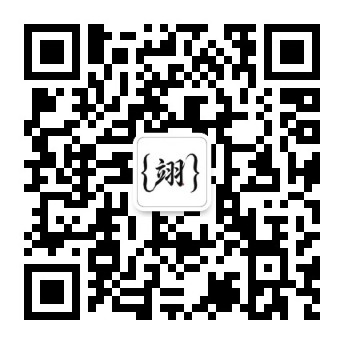
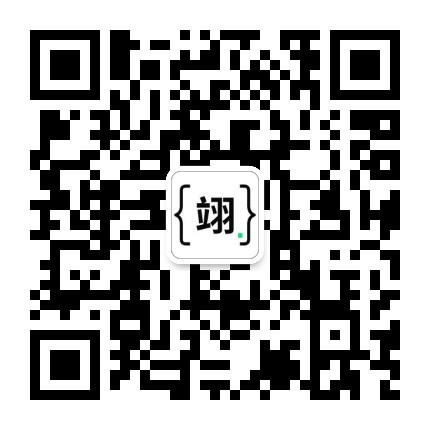
feat: update wechat qrcode

Changed region(s): [[0.407, 0.407, 0.6105, 0.5814]]

diff --git a/_includes/theme/home-sidebar.html b/_includes/theme/home-sidebar.html
@@ -5,7 +5,7 @@
   </div>
   <div class="console-panel-body sidebar-wechat-body">
     <div class="wechat-qr-wrap">
-      <img src="{{ site.url }}/images/qrcode.jpg" alt="{{ site.components.qrcode.image_alt }}" class="wechat-qr-img" />
+      <img src="{{ site.url }}/images/qrcode.jpg?v=2" alt="{{ site.components.qrcode.image_alt }}" class="wechat-qr-img" />
       <p class="wechat-qr-caption">{{ site.components.qrcode.image_alt }}</p>
     </div>
     <p class="sidebar-widget-desc">扫码关注，获取更多技术文章与实践经验。</p>

diff --git a/_includes/theme/post-toc.html b/_includes/theme/post-toc.html
@@ -13,7 +13,7 @@
       <span>WeChat</span>
     </div>
     <div class="console-panel-body post-toc-wechat-body">
-      <img src="{{ site.url }}/images/qrcode.jpg" alt="{{ site.components.qrcode.image_alt }}" class="wechat-qr-img post-toc-wechat-image" />
+      <img src="{{ site.url }}/images/qrcode.jpg?v=2" alt="{{ site.components.qrcode.image_alt }}" class="wechat-qr-img post-toc-wechat-image" />
       <p class="wechat-qr-caption post-toc-wechat-caption">{{ site.components.qrcode.image_alt }}</p>
     </div>
   </div>

diff --git a/_includes/theme/wechat-qr.html b/_includes/theme/wechat-qr.html
@@ -6,7 +6,7 @@
       <p class="theme-section-description">扫码关注，获取更多技术文章。</p>
     </header>
     <div class="wechat-qr-wrap">
-      <img src="{{ site.url }}/images/qrcode.jpg" alt="{{ site.components.qrcode.image_alt }}" class="wechat-qr-img" />
+      <img src="{{ site.url }}/images/qrcode.jpg?v=2" alt="{{ site.components.qrcode.image_alt }}" class="wechat-qr-img" />
       <p class="wechat-qr-caption">{{ site.components.qrcode.image_alt }}</p>
     </div>
   </div>

diff --git a/pages/about.md b/pages/about.md
@@ -41,5 +41,5 @@ full_width: true
 - 微信公众号：**{{ site.components.qrcode.image_alt }}**
 
 <div class="wechat-qr-wrap">
-  <img src="{{ site.url }}/images/qrcode.jpg" alt="{{ site.components.qrcode.image_alt }}" class="wechat-qr-img" />
+  <img src="{{ site.url }}/images/qrcode.jpg?v=2" alt="{{ site.components.qrcode.image_alt }}" class="wechat-qr-img" />
 </div>
